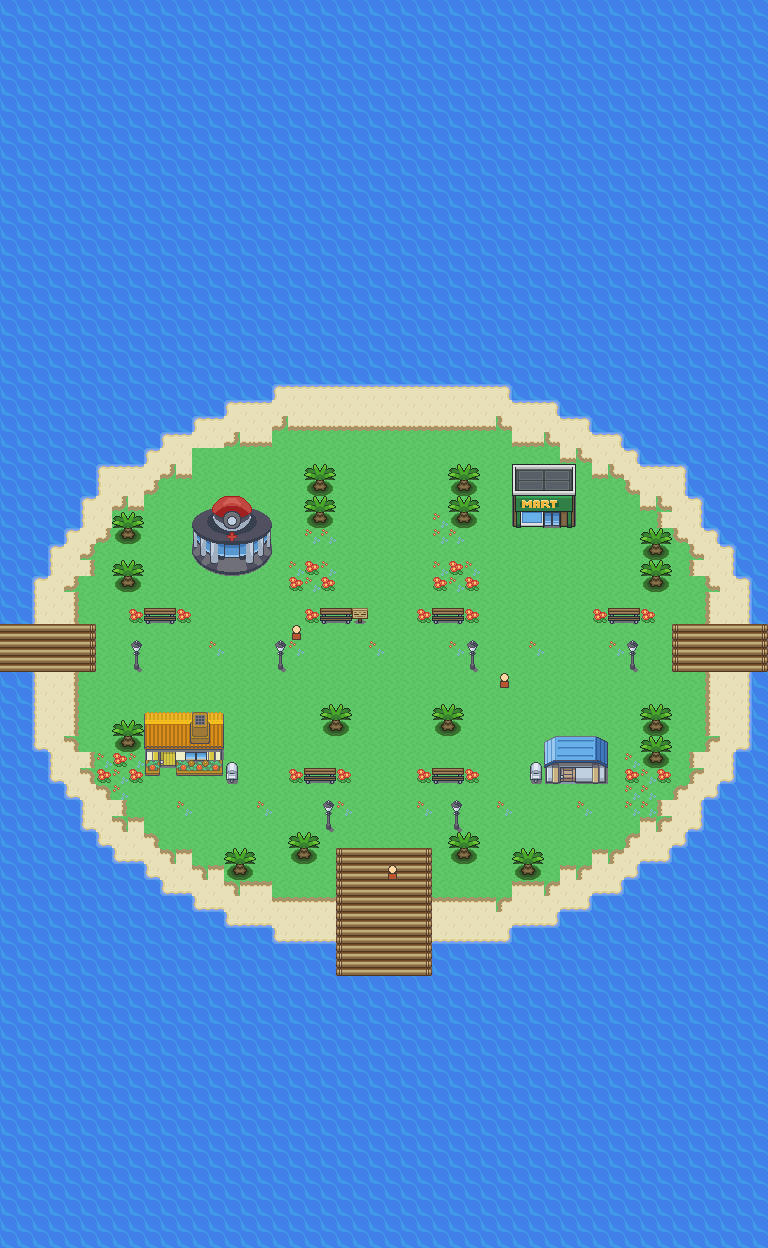
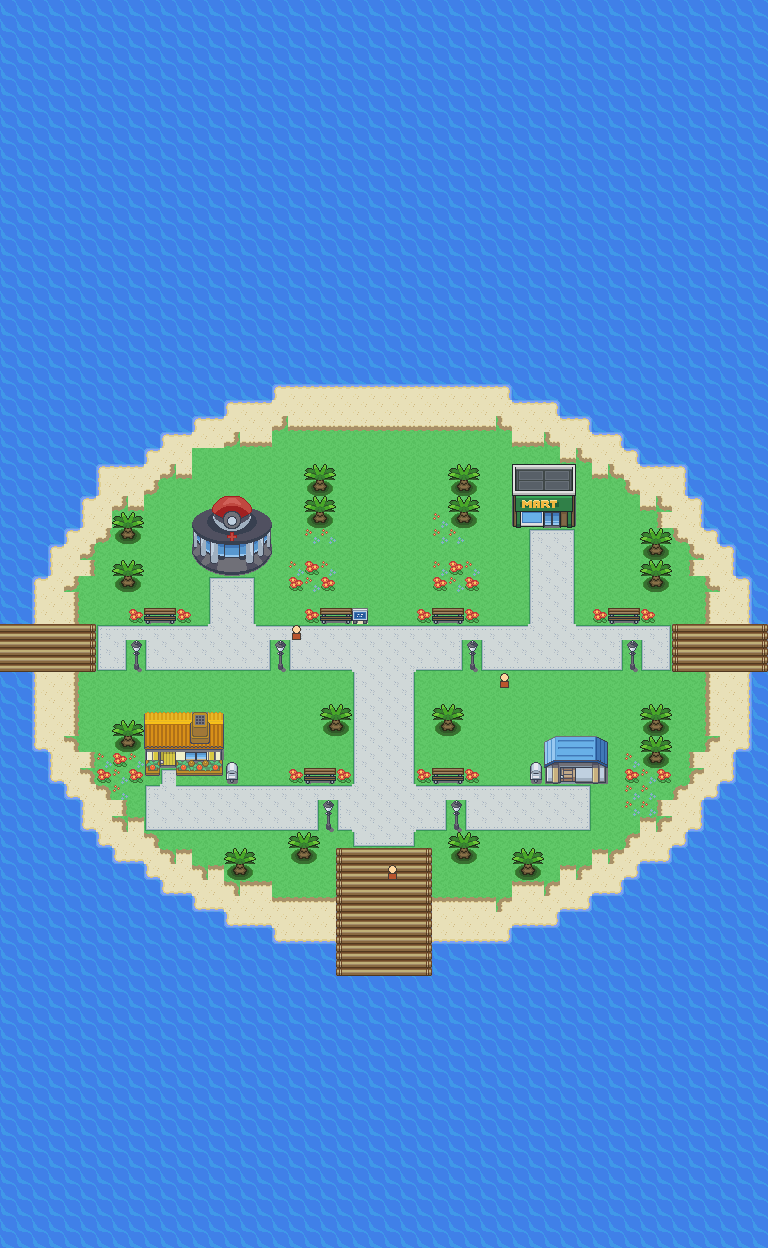
Speed up bench and Center healing and pave Orange City
Remove the bench fanfare wait, shorten Center healing effects, and clean up the monitor when healing finishes. Add paved city streets, restore the town sign tile and text, and describe Hoenn from the Route 146 lookout.

Validation: ROM build, bench healing regression test, and Orange City accessibility and paving checks.

Changed region(s): [[0.125, 0.4062, 0.875, 0.6875]]

diff --git a/tools/brisk/orange_islands.py b/tools/brisk/orange_islands.py
@@ -112,6 +112,33 @@ def current_areas():
         areas.append(a)
     return areas
 
+def pave_city(a):
+    """Join the current doors, route promenade and harbor without moving scenery."""
+    paving={0x138,0x139,0x13A,0x140,0x141,0x142,0x148,0x149,0x14A}
+    ground={GRASS,5,0x10}|paving
+    edges=[y for y in range(a.h) if a.grid[y][0]&1023 in [0x205,0x206,0x207]]
+    main=edges[len(edges)//2]
+    home=max(w['y'] for w in a.meta['warp_events'][2:])+2
+    mask=set()
+    def street(x0,y0,x1,y1):
+        for y in range(y0,y1):
+            for x in range(x0,x1):
+                if 0<=x<a.w and 0<=y<a.h and a.grid[y][x]&1023 in ground:
+                    mask.add((x,y))
+    street(5,main-1,a.w-5,main+2)
+    street(9,home-1,37,home+2)
+    street(22,main,26,home+4)
+    for w in a.meta['warp_events']:
+        street(w['x']-1,w['y']+1,w['x']+2,home+1 if w['y']>main else main+1)
+    for x,y in mask:
+        n,e,s,w=[(x+dx,y+dy) not in mask for dx,dy in [(0,-1),(1,0),(0,1),(-1,0)]]
+        tile=0x138 if n and w else 0x13A if n and e else 0x148 if s and w else 0x14A if s and e else 0x139 if n else 0x149 if s else 0x140 if w else 0x142 if e else 0x141
+        a.grid[y][x]=(a.grid[y][x]&~1023)|tile
+    # Tile 4 is flowers in this imported tileset; tile 3 is the wooden sign.
+    for event in a.meta['bg_events']:
+        if event.get('script')=='OrangeCity_EventScript_TownSign':
+            a.grid[event['y']][event['x']]=block(3,True)
+
 def polish():
     # Work on current map sizes/positions instead of recreating the old town.
     for a in current_areas():
@@ -119,7 +146,6 @@ def polish():
         protected={(w['x'],w['y']) for w in a.meta['warp_events']}
         protected|={(o['x'],o['y']) for o in a.meta['object_events']}
         protected|={(o['x'],o['y']) for o in a.meta['bg_events']}
-        paving={0x138,0x139,0x13A,0x13E,0x13F,0x140,0x141,0x142,0x146,0x147,0x148,0x149,0x14A}
         plain={GRASS,0x10,5}
         def safe(x,y):return 0<=x<a.w and 0<=y<a.h and (x,y) not in protected
         def flower(x,y,tile=5):
@@ -135,11 +161,7 @@ def polish():
             if all(safe(x+dx,y+dy) and a.grid[y+dy][x+dx]&1023 in plain for dy in range(2) for dx in range(2)):
                 a.stamp(x,y,[[0x14,0x15],[0x24,0x25]])
         if a.name=='OrangeCity':
-            # Route 144's grassy, flower-lined promenade replaces the wide gray
-            # paving while the service buildings, doors and harbor stay put.
-            for y,row in enumerate(a.grid):
-                for x,v in enumerate(row):
-                    if v&1023 in paving:a.grid[y][x]=block(GRASS)
+            # Retain the flower beds, palms and rest spots around paved streets.
             edges=[y for y in range(a.h) if a.grid[y][0]&1023 in [0x205,0x206,0x207]]
             main=edges[len(edges)//2]
             home=max(w['y'] for w in a.meta['warp_events'][2:])+2
@@ -180,6 +202,7 @@ def polish():
             for y,row in enumerate(a.grid):
                 for x,v in enumerate(row):
                     if v&1023==GRASS and (x*7+y*11)%43==0:flower(x,y,5)
+        if a.name=='OrangeCity':pave_city(a)
         write_words('data/layouts/'+a.name+'/map.bin',[v for row in a.grid for v in row])
     # Mailboxes should be solid at their bases, like the other street furniture.
     layouts=load('data/layouts/layouts.json')['layouts']

diff --git a/src/field_effect.c b/src/field_effect.c
@@ -1174,6 +1174,9 @@ static void PokecenterHealEffect_WaitForSoundAndEnd(struct Task *task)
 {
     if (gSprites[task->tBallSpriteId].sState > 6)
     {
+        // The faster ball sequence can finish before the monitor's animation.
+        if (gSprites[task->tMonitorSpriteId].callback == SpriteCB_PokecenterMonitor)
+            FieldEffectFreeGraphicsResources(&gSprites[task->tMonitorSpriteId]);
         DestroySprite(&gSprites[task->tBallSpriteId]);
         FieldEffectActiveListRemove(FLDEFF_POKECENTER_HEAL);
         DestroyTask(FindTaskIdByFunc(Task_PokecenterHeal));
@@ -1272,7 +1275,7 @@ static void PokeballGlowEffect_PlaceBalls(struct Sprite *sprite)
     u8 spriteId;
     if (sprite->sTimer == 0 || (--sprite->sTimer) == 0)
     {
-        sprite->sTimer = 25;
+        sprite->sTimer = sprite->sPlayHealSe ? 6 : 25;
         spriteId = CreateSpriteAtEnd(&sSpriteTemplate_PokeballGlow, sPokeballCoordOffsets[sprite->sCounter].x + sprite->x2, sPokeballCoordOffsets[sprite->sCounter].y + sprite->y2, 0);
         gSprites[spriteId].oam.priority = 2;
         gSprites[spriteId].sEffectSpriteId = sprite->sSpriteId;
@@ -1282,7 +1285,7 @@ static void PokeballGlowEffect_PlaceBalls(struct Sprite *sprite)
     }
     if (sprite->sNumMons == 0)
     {
-        sprite->sTimer = 32;
+        sprite->sTimer = sprite->sPlayHealSe ? 8 : 32;
         sprite->sState++;
     }
 }
@@ -1292,12 +1295,13 @@ static void PokeballGlowEffect_TryPlaySe(struct Sprite *sprite)
     if ((--sprite->sTimer) == 0)
     {
         sprite->sState++;
-        sprite->sTimer = 8;
+        sprite->sTimer = sprite->sPlayHealSe ? 3 : 8;
         sprite->sCounter = 0;
         sprite->data[3] = 0;
         if (sprite->sPlayHealSe)
         {
-            PlayFanfare(MUS_HEAL);
+            // Keep the shortened Center animation free of the long fanfare wait.
+            PlaySE(SE_USE_ITEM);
         }
     }
 }
@@ -1307,7 +1311,7 @@ static void PokeballGlowEffect_Flash1(struct Sprite *sprite)
     u8 phase;
     if ((--sprite->sTimer) == 0)
     {
-        sprite->sTimer = 8;
+        sprite->sTimer = sprite->sPlayHealSe ? 3 : 8;
         sprite->sCounter++;
         sprite->sCounter &= 3;
 
@@ -1326,7 +1330,7 @@ static void PokeballGlowEffect_Flash1(struct Sprite *sprite)
     if (sprite->data[3] > 2)
     {
         sprite->sState++;
-        sprite->sTimer = 8;
+        sprite->sTimer = sprite->sPlayHealSe ? 3 : 8;
         sprite->sCounter = 0;
     }
 }
@@ -1336,13 +1340,13 @@ static void PokeballGlowEffect_Flash2(struct Sprite *sprite)
     u8 phase;
     if ((--sprite->sTimer) == 0)
     {
-        sprite->sTimer = 8;
+        sprite->sTimer = sprite->sPlayHealSe ? 3 : 8;
         sprite->sCounter++;
         sprite->sCounter &= 3;
         if (sprite->sCounter == 3)
         {
             sprite->sState++;
-            sprite->sTimer = 30;
+            sprite->sTimer = sprite->sPlayHealSe ? 8 : 30;
         }
     }
     phase = sprite->sCounter;
@@ -1366,7 +1370,7 @@ static void PokeballGlowEffect_Dummy(struct Sprite *sprite)
 
 static void PokeballGlowEffect_WaitForSound(struct Sprite *sprite)
 {
-    if (sprite->sPlayHealSe == FALSE || IsFanfareTaskInactive())
+    if (sprite->sPlayHealSe == FALSE || !IsSEPlaying())
     {
         sprite->sState++;
     }

diff --git a/docs/maps/orange-islands.md b/docs/maps/orange-islands.md
@@ -15,7 +15,7 @@ Orange City, and Routes 149–150. Routes 147–148 form the forest approach.
 | Route 149 | 46 × 36 | Return teleporter, beach paths and rocky sea passage |
 | Route 150 | 63 × 36 | Sea passage linking Route 149 to Route 143 |
 
-Orange City's grassy promenades connect both neighboring routes, the four building
+Orange City's paved streets and flower-lined rest areas connect both neighboring routes, the four building
 entrances, town square and harbor. Each interior returns to its own front door.
 The Center's healing, upper floor and respawn data are retained, with its outdoor
 arrival position updated to the new doorway. The mart retains its custom Mega
